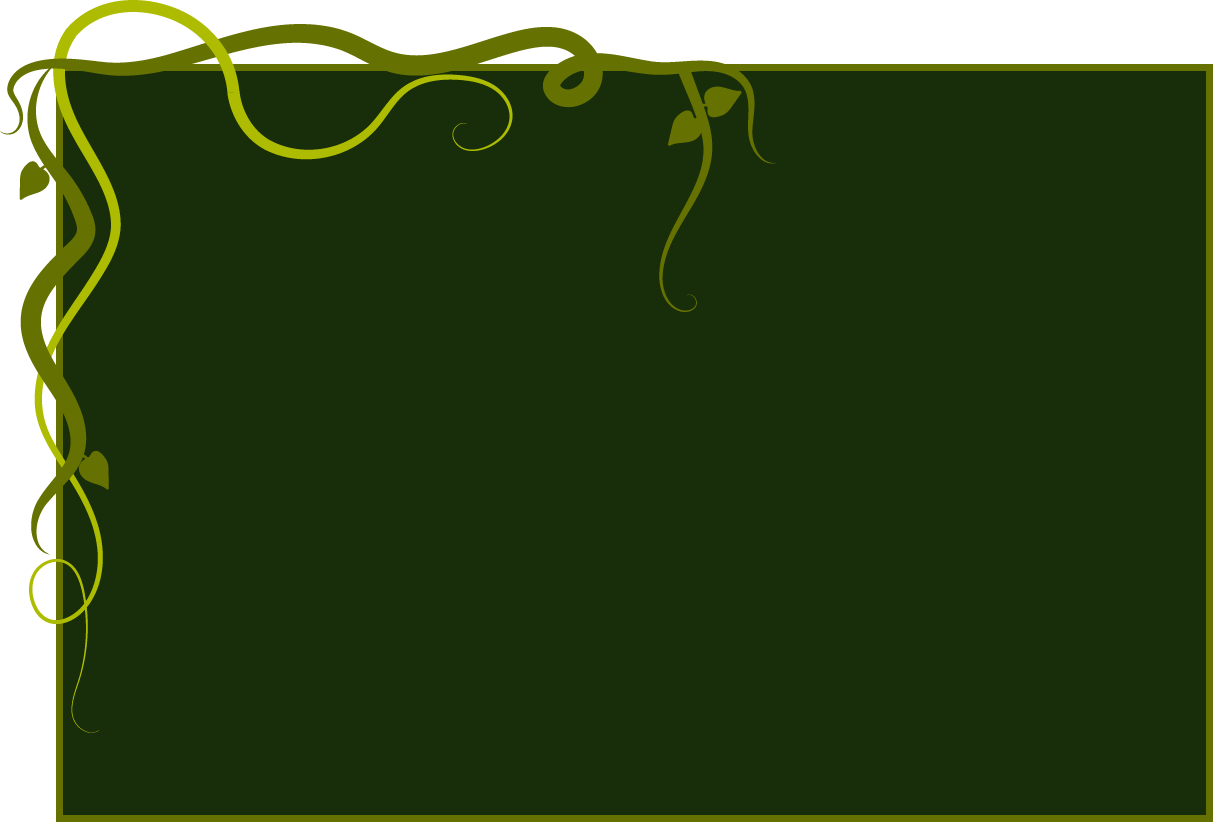
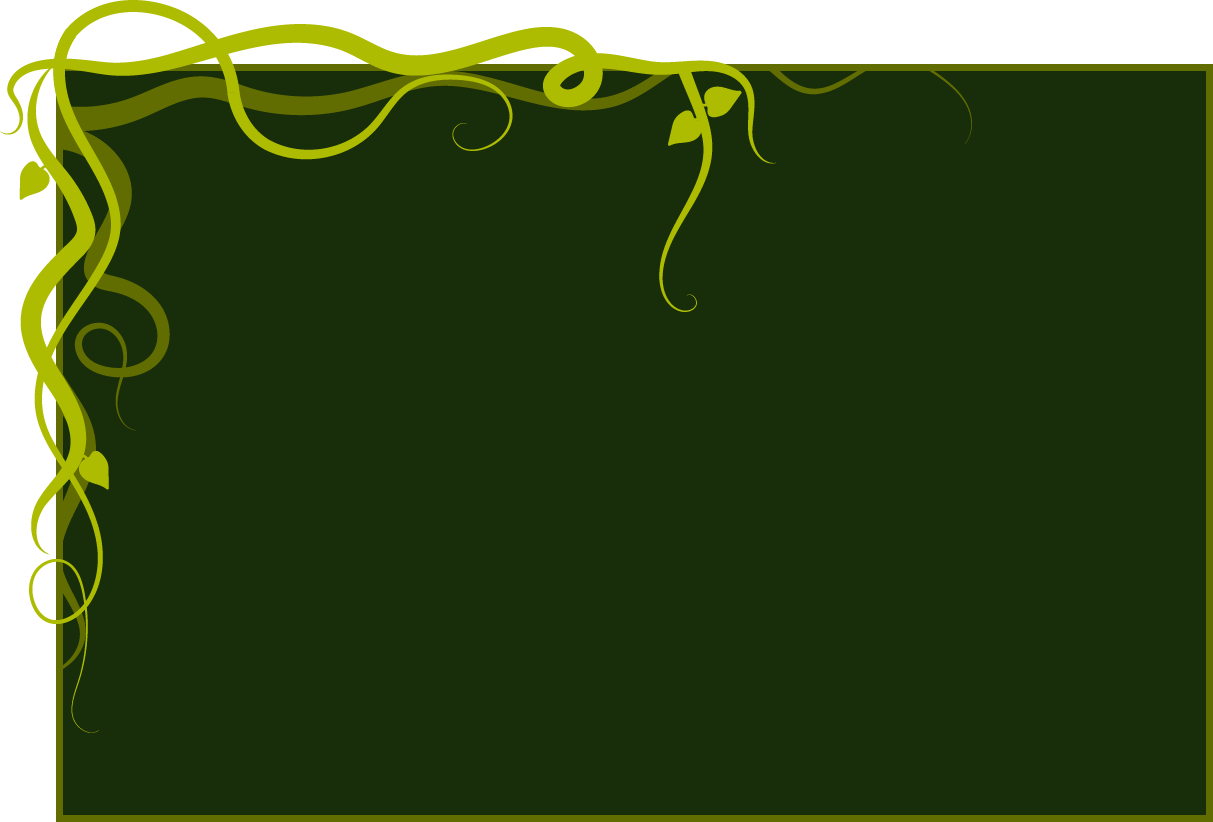
ergwhfs

diff --git a/index.html b/index.html
@@ -8,19 +8,42 @@
         <meta charset="utf-8">
         <meta http-equiv="X-UA-Compatible" content="IE=edge">
         <title></title>
-        <meta name="description" content="From Blossom">
+        <meta name="description" content="">
         <meta name="viewport" content="width=device-width, initial-scale=1">
         <link rel="stylesheet" href="css/style.css">
     </head>
     <body>
 
-        <h1>From Blossom</h1>
+        <h1>
+            From Blossoms
+        </h1>
+
+        <h2>Li-Young Lee</h2>
+        <div id="text">
+        <p>
+            O, to take what we love inside,
+            to carry within us an orchard, to eat
+            not only the skin, but the shade,
+            not only the sugar, but the days, to hold
+            the fruit in our hands, adore it, then bite into   
+            the round jubilance of peach.
+            
+            There are days we live
+            as if death were nowhere
+            in the background; from joy
+            to joy to joy, from wing to wing,
+            from blossom to blossom to
+            impossible blossom, to sweet impossible blossom.</p>
+
+            <p>
+            This website was inspired by the poem “From Blossoms” by Li-Young Lee. I heard this poem read aloud in a writing class and it really moved me. The final lines of the poem have stuck with me since. I made my website based off how I read the last lines—“from blossom to blossom to impossible blossom, to sweet impossible blossom”— It's like letting out a breath.</p>
+            </div>
+         
+        <div id="nav">
+            <a href="sketch3/sketch3.html"><img src="assets/from.png" id="right"></a>
+            <a href="sketch2/sketch2.html"><img src="assets/to.png" id="left"></a>
+        </div>
+        </body>
 
 
-
-        <a href="about.html"><img src="assets/left.png" id="left"></a>
-        <a href="index2.html"><img src="assets/right.png" id="right"></a>
-    
-
-    </body>
 </html>

diff --git a/css/style.css b/css/style.css
@@ -3,8 +3,8 @@
 body{
  /*   background-color: #182D09;*/
     color: #F3FFB6;
- /*  background-image: url("../assets/screen.png");*/
-      background-repeat: no-repeat;
+   background-image: url("../assets/screenfull.png");
+    background-repeat: no-repeat;
     
 }
 
@@ -43,20 +43,28 @@ p{
 
 
 #left{
- width:175.04px;
- height:146px;
+
+ width:129.44px;
+height:144px;
+ margin-left:50%;
+ bottom:20px;
 
 }
 
 #right{
-
-width:129.44px;
-height:144px;
+width:175.04px;
+height:146px;
+margin-left:300px;
+bottom:20px;
 }
 
 #nav{
+    margin-top: 500px;
+    margin-left:10%;
     display: flex;
-    justify-content: space-between;
+    justify-content: space-around;
+    position:fixed;
+
 }
 
 #text{

diff --git a/sketch3/sketch3.html b/sketch3/sketch3.html
@@ -9,5 +9,10 @@
   </head>
   <body id="sketch3">
     <script src="sketch.js"></script>
+
+    <div id="nav">
+      <a href="../sketch2/sketch2.html"><img src="../assets/from.png" id="right"></a>
+      <a href="../about.html"><img src="../assets/to.png" id="left"></a>
+  </div>
   </body>
 </html>

diff --git a/sketch2/sketch2.html b/sketch2/sketch2.html
@@ -9,5 +9,9 @@
   </head>
   <body>
     <script src="sketch.js"></script>
+    <div id="nav">
+      <a href="../about.html"><img src="../assets/from.png" id="right"></a>
+      <a href="../sketch3/sketch3.html"><img src="../assets/to.png" id="left"></a>
+  </div>
   </body>
 </html>
